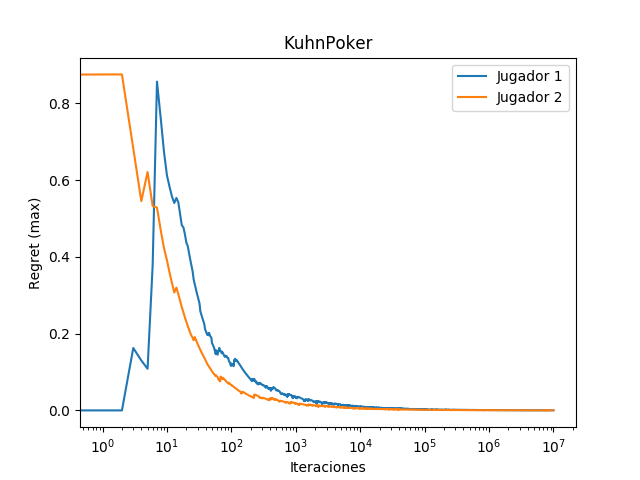
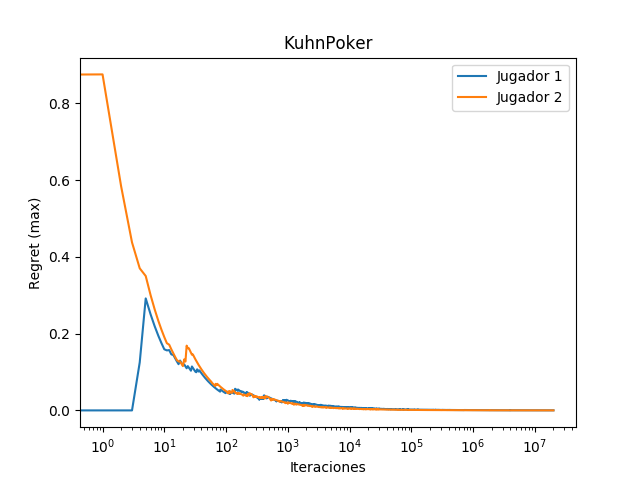
Add time

diff --git a/src/algorithms/CFR.cpp b/src/algorithms/CFR.cpp
@@ -4,8 +4,10 @@
 #include <iostream>
 #include <fstream>
 #include <iomanip>
+#include <chrono>
 #include "CFR.hpp"
 using namespace std;
+using namespace std::chrono;
 
 template <typename State, typename Action, typename Properties, typename InformationSet, typename Hash>
 CFR<State, Action, Properties, InformationSet, Hash>::CFR(
@@ -121,14 +123,20 @@ void CFR<State, Action, Properties, InformationSet, Hash>::normalize_strategy()
 }
 
 template <typename State, typename Action, typename Properties, typename InformationSet, typename Hash>
-void CFR<State, Action, Properties, InformationSet, Hash>::train(int iterations, ostream& os)
+long long CFR<State, Action, Properties, InformationSet, Hash>::train(int sec, ostream& os)
 {
     vector <vector<int>> information_sets(2);
-    for (int i = 0; i < iterations; i++) {
-        for (int k = 1; k <=2; k++){
+    auto total_seconds = (duration<long int, ratio<1, 1000000>>) (long long) sec*1000000;
+    auto accumulated_time = (duration<long int, ratio<1, 1000000>>)0;
+    long long i;
+    for (i = 0; ; i++) {
+        auto start = high_resolution_clock::now();
+        for (int k = 1; k <= 2; k++){
             initialize_game();
             dfs(k, 1, 1);
         }
+        auto stop = high_resolution_clock::now();
+        accumulated_time = accumulated_time + duration_cast<microseconds>(stop-start);
         vector <double> r(2, 0);
         for (int k = 0; k < 2; k++) {
             for (auto I : game->player_information_sets(k+1)) {
@@ -141,8 +149,11 @@ void CFR<State, Action, Properties, InformationSet, Hash>::train(int iterations,
             os << r[k] << ' ';
         }
         os << endl;
+        if (accumulated_time >= total_seconds)
+            break;
     }
     normalize_strategy();
+    return i;
 }
 
 template <typename State, typename Action, typename Properties, typename InformationSet, typename Hash>

diff --git a/src/cfr.cpp b/src/cfr.cpp
@@ -9,14 +9,17 @@
 #include "games/Dudo.hpp"
 #include "games/Domino.hpp"
 using namespace std;
-int iterations = 1000000;
+int total_seconds = 300;
 #define EPS 1e-5
 
 void cfr_kuhn(ostream& os_regret, ostream& os_strategy, ostream& os_inf_sets) {
     using namespace kuhn_poker;
     KuhnPoker kuhn_poker;
     CFR<State, Action, Properties, InformationSet, Hash> cfr({&kuhn_poker}, EPS);
-    cfr.train(iterations, os_regret);
+    cout << "training..." << endl;
+    long long iterations = cfr.train(total_seconds, os_regret);
+    cout << "Iterations = " << iterations << endl;
+    cout << "finished training" << endl;
     cfr.print_strategy(os_strategy);
     kuhn_poker.print_information_sets(os_inf_sets);
 }
@@ -25,7 +28,7 @@ void cfr_ocp(ostream& os_regret, ostream& os_strategy, ostream& os_inf_sets, int
     using namespace ocp;
     OCP ocp(N);
     CFR<State, Action, Properties, InformationSet, Hash> cfr({&ocp}, EPS);
-    cfr.train(iterations, os_regret);
+    cfr.train(total_seconds, os_regret);
     cfr.print_strategy(os_strategy);
     ocp.print_information_sets(os_inf_sets);
 }
@@ -54,7 +57,7 @@ void cfr_dudo(ostream& os_regret, ostream& os_strategy, ostream& os_inf_sets, in
     }
     Dudo dudo(K, D1, D2, dudos);
     CFR<State, Action, Properties, InformationSet, Hash> cfr({&dudo}, EPS);
-    cfr.train(iterations, os_regret);
+    cfr.train(total_seconds, os_regret);
     cfr.print_strategy(os_strategy);
     dudo.print_information_sets(os_inf_sets);
 }
@@ -71,7 +74,7 @@ void cfr_domino(
     Domino domino(max_point, initial_hand);
     CFR<State, Action, Properties, InformationSet, Hash> cfr({&domino}, EPS);
     cout << "training..." << endl;
-    cfr.train(iterations, os_regret);
+    cfr.train(total_seconds, os_regret);
     cout << "printing strategy" << endl;
     cfr.print_strategy(os_strategy);
     cout << "printing information sets" << endl;

diff --git a/src/algorithms/CFR.hpp b/src/algorithms/CFR.hpp
@@ -81,7 +81,7 @@ public:
     *   parametros
     *   @iterations:    numero de iteraciones
     */
-    void train(int iterations, ostream& os = cout);
+    long long train(int total_seconds, ostream& os = cout);
 
     /**
     *   average_strategy
